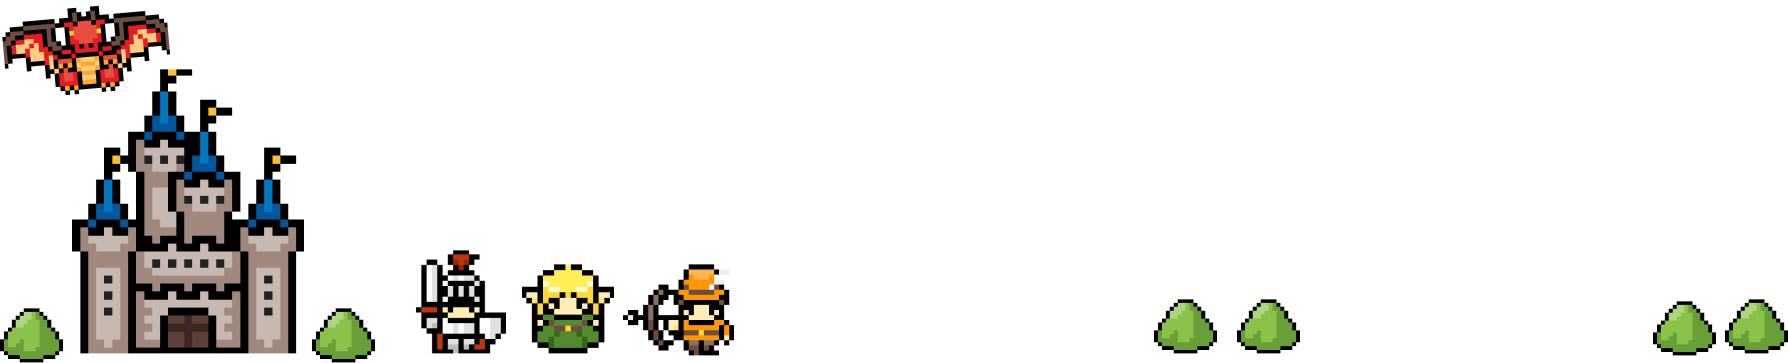
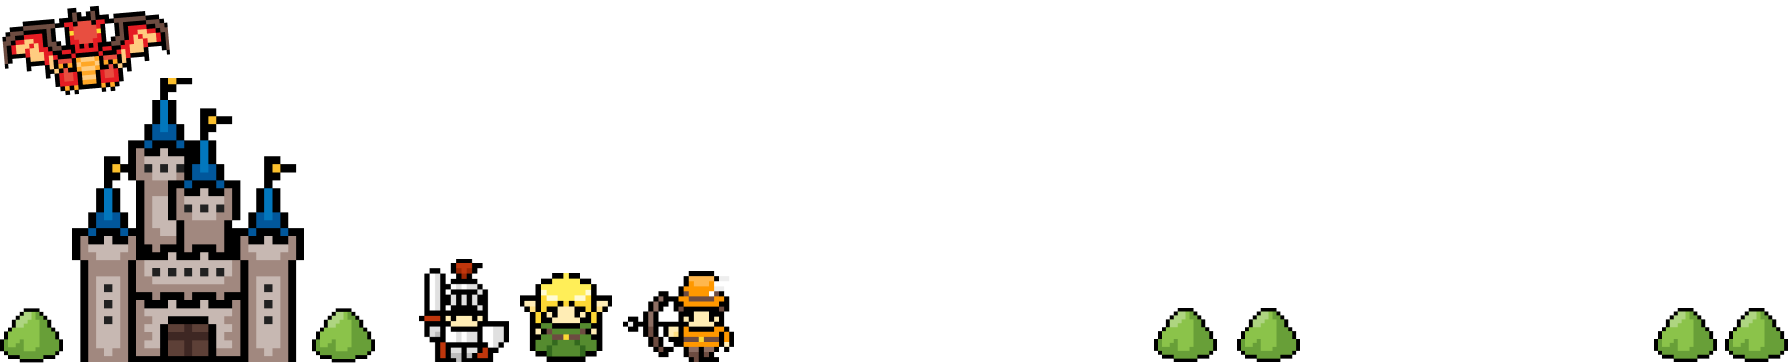
Corrected background image on quest creation page

diff --git a/public/js/questform.js b/public/js/questform.js
@@ -193,7 +193,12 @@
                                     <iframe id="video_preview_${subItemCount}" width="560" height="315" frameborder="0" allowfullscreen></iframe>
                                 </div>
 
-                                <button type="button" class="btn-design mt-2" onclick="removeSubItem(${subItemCount})">Delete<img src="../images/Red Slime.png" style="width: 1.5rem; height: 1.3rem;"></button>
+                                <div class="d-flex justify-content-end">
+                                                <button type="button" class="btn-design mt-2" onclick="removeSubItem(1)">
+                                                    Delete<img src="{{ asset('images/delete-icon.png')}}">
+                                                </button>
+                                </div>
+
                             </div>
                         </div>
                     </div>

diff --git a/public/css/style.css b/public/css/style.css
@@ -138,6 +138,7 @@ footer{
 }
 
 
+
 /* ↓↓↓ for home.blade.php ↓↓↓ */
 .image-md{
     width: 3.5rem;
@@ -748,9 +749,16 @@ form {
 
 
 .bg-img-container img {
-    width: 40rem;
+    width: 70rem;
     height: auto;
+    position: relative;
 }
+
+.form-btn{
+    margin: 0;
+    padding: 0;
+}
+
 
 
 /* クエストのサムネイル */
@@ -874,6 +882,11 @@ form {
 }
 
 /* formボタンのデザイン　*/
+.btn-container {
+        text-align: right; /* ボタンを中央に配置 */
+        z-index: 10; /* 画像より上に配置 */
+}
+
 .btn-design {
     text-decoration: none;
     color: #333;
@@ -883,6 +896,7 @@ form {
     border-radius: 20px 20px 20px 20px;
     box-shadow: 0 4px 6px rgba(0, 0, 0, 0.2);
 }
+
 
 .btn-design img {
     width: 1rem;

diff --git a/resources/views/quests/create.blade.php b/resources/views/quests/create.blade.php
@@ -184,7 +184,7 @@
                             
                             <!-- Form Buttons -->
                             <div class="btn-container">
-                                <div class="form-group form-btn mt-4">
+                                <div class="form-group form-btn">
                                     <a href="{{ route('quests.index') }}" class="btn-design">Cancel</a>
                                     <button type="submit" class="btn-design">Save<img src="{{ asset('images/te_yubisashi_right 3.png') }}"></button>
                                 </div>
@@ -197,7 +197,8 @@
         <div class="bg-img-container">
             <img src="{{ asset('images/Group 235.png') }}" alt="background-img">
         </div>
-        @endsection
+    @endsection
+
         @section('scripts')
         <script src="{{ asset('js/questform.js') }}"></script>
         <script src="script.js"></script>

diff --git a/resources/views/layouts/app.blade.php b/resources/views/layouts/app.blade.php
@@ -208,14 +208,14 @@
                 </div>
             </div>
         </nav>
-        <main class="py-4">
+        <main class="py-0">
             <div class="container">
                 <div class="row justify-content-center">
                     @yield('content')
                 </div>
             </div>
         </main>
-        <footer class="text-white py-4">
+        <footer class="footer text-white py-4">
             <div class="container">
                 <div class="row">
                     <div class="col-md-4 mb-3">
